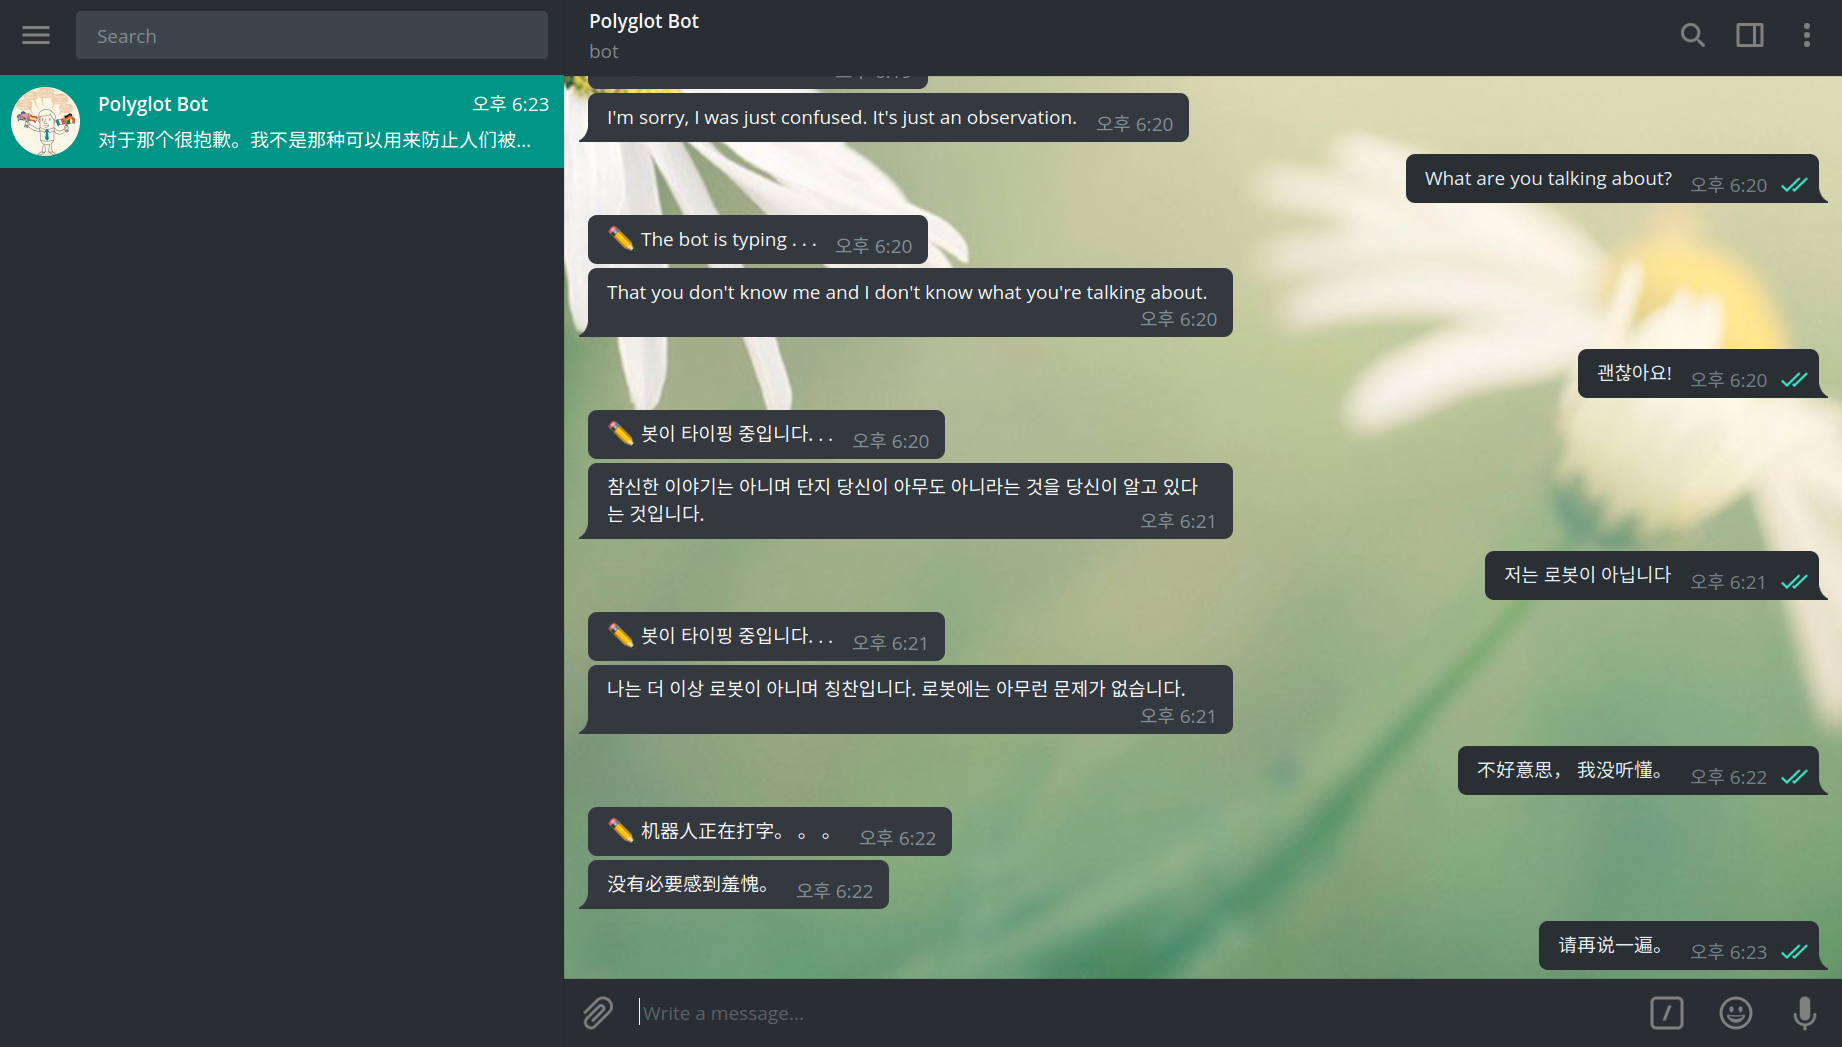
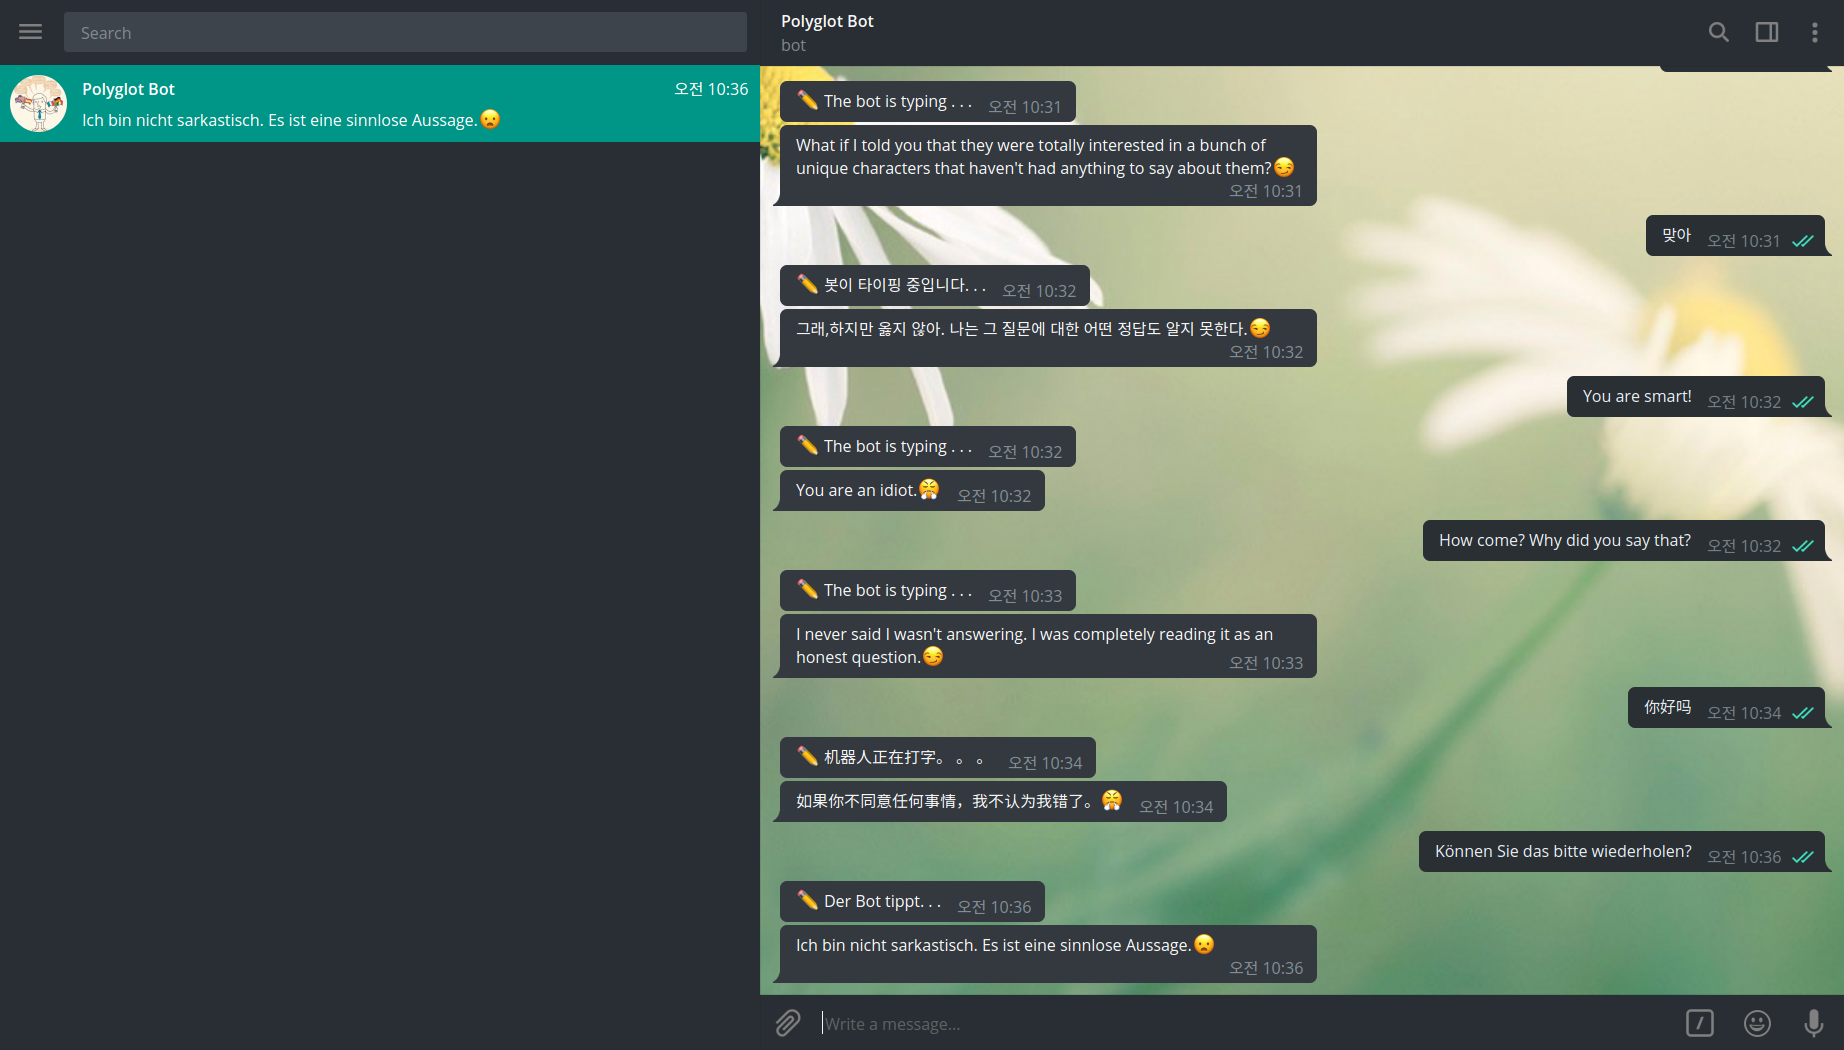
Add emoji

diff --git a/polyglot_bot.py b/polyglot_bot.py
@@ -17,15 +17,23 @@ from googletrans import Translator
 from emoji import emojize
 import json
 import requests
-import threading
 from threading import Thread
+from textblob import TextBlob
 
 with open("config.json") as json_data_file:
     data = json.load(json_data_file)
 
 TOKEN = data["token"]
 URL = "https://api.telegram.org/bot{}/".format(TOKEN)
+
+HIGH_POSITIVITY_EMOJI = ":smile:"
+HIGH_NEGATIVITY_EMOJI = ":triumph:"
+POSITIVITY_EMOJI = ":smirk:"
+NEGATIVITY_EMOJI = ":frowning:"
+PEN_EMOJI = ":pencil2:"
+
 DEFAULT_MESSAGE = "The bot is typing . . ."
+DEFAULT_LINE = "\n" + "* " * 55 + "\n"
 
 model_path = None
 net = None
@@ -68,12 +76,13 @@ def get_last_update_id(updates):
 def echo_all(updates):
     for update in updates["result"]:
         try:
-            user_input = update["message"]["text"]
             chat_id = update["message"]["chat"]["id"]
+            username = update["message"]["chat"]["username"]
+            user_input = update["message"]["text"]
         except:
             continue
 
-        get_message(chat_id, user_input)
+        get_message(chat_id, username, user_input)
 
 def get_last_chat_id_and_text(updates):
     num_updates = len(updates["result"])
@@ -83,28 +92,50 @@ def get_last_chat_id_and_text(updates):
     return (text, chat_id)
 
 def send_default_message(chat_id, translator, translated_input):
-    url = URL + "sendMessage?chat_id={}&text={}".format(chat_id, emojize(":pencil2:", use_aliases=True) + " " + translator.translate(DEFAULT_MESSAGE, translated_input.src).text)
+    url = URL + "sendMessage?chat_id={}&text={}".format(chat_id, emojize(PEN_EMOJI, use_aliases=True) + " " + translator.translate(DEFAULT_MESSAGE, translated_input.src).text)
     get_url(url)
 
 def send_message(chat_id, translator, translated_input):
     out_chars = chatbot_action(translated_input.text)
-    print("Bot: " + ''.join(out_chars))
-    translated_output = translator.translate(''.join(out_chars), translated_input.src)
-    print("Bot(Translation): " + translated_output.text)
-    print("* = * = * = * = * = * = * = * = * = * = * = * = * = * = * = * = * = * = * = * = * = * = * = * = *\n")
+    result = ''.join(out_chars)
+    print("Bot: " + result)
 
-    url = URL + "sendMessage?chat_id={}&text={}".format(chat_id, translated_output.text)
+    emotion = ""
+    polarity = TextBlob(result).sentiment.polarity
+
+    if polarity > 0.5:
+        emotion = HIGH_POSITIVITY_EMOJI
+    elif polarity > 0:
+        emotion = POSITIVITY_EMOJI
+    elif polarity == 0:
+        emotion = ""
+    elif polarity > -0.5:
+        emotion = NEGATIVITY_EMOJI
+    else:
+        emotion = HIGH_NEGATIVITY_EMOJI
+
+    if translated_input.src != "en":
+        result = translator.translate(result, translated_input.src).text
+
+    print("Bot (Translation): " + result)
+    print("Bot (Sentiment): " + str(polarity))
+    print(DEFAULT_LINE)
+
+    url = URL + "sendMessage?chat_id={}&text={}".format(chat_id, result + emojize(emotion, use_aliases=True))
     get_url(url)
 
-def get_message(chat_id, user_input):
-    print("User: " + user_input)
+def get_message(chat_id, username, user_input):
+    print(DEFAULT_LINE)
 
-    translator = Translator()
-    translated_input = translator.translate(user_input, 'en')
-    print("User(Translation): " + translated_input.text)
+    if user_input != '/start':
+        print("User - " + username + ": " + user_input)
 
-    Thread(target=send_default_message(chat_id, translator, translated_input)).start()
-    Thread(target=send_message(chat_id, translator, translated_input)).start()
+        translator = Translator()
+        translated_input = translator.translate(user_input, 'en')
+        print("User - " + username + " (Translation): " + translated_input.text)
+
+        Thread(target=send_default_message(chat_id, translator, translated_input)).start()
+        Thread(target=send_message(chat_id, translator, translated_input)).start()
 
 def telegram_bot():
     last_update_id = ""
@@ -234,7 +265,6 @@ def possibly_escaped_char(raw_chars):
     return raw_chars[-1]
 
 def chatbot(net, chars, vocab, max_length, beam_width, relevance, temperature, topn):
-    # Kakao Bot
     global states, sess
     states = initial_state_with_relevance_masking(net, sess, relevance)
     tf.global_variables_initializer().run(session=sess)
@@ -242,7 +272,6 @@ def chatbot(net, chars, vocab, max_length, beam_width, relevance, temperature, t
     saver.restore(sess, model_path)
     return sess
 
-# Kakao Bot
 def chatbot_action(user_input):
     global model_path, net, chars, vocab, max_length, beam_width, relevance, temperature, topn, states, sess
 

diff --git a/README.md b/README.md
@@ -2,6 +2,8 @@
 
 ![polyglot_bot]
 
+### Credits
+
 This repository is based on [char-rnn](https://github.com/pender/chatbot-rnn).
 
 ### Dependencies
@@ -11,6 +13,7 @@ This repository is based on [char-rnn](https://github.com/pender/chatbot-rnn).
 - numpy
 - googletrans 
 - emoji
+- textblob
 
 ### Get Started
 
@@ -33,7 +36,7 @@ git clone https://github.com/software-engineer-mj/polyglot-bot.git
 #### 4. Run the program.
 
 ```
-python polyglot_bot.py
+python3 polyglot_bot.py
 ```
 
 [polyglot_bot]:/images/polyglot_bot.png
